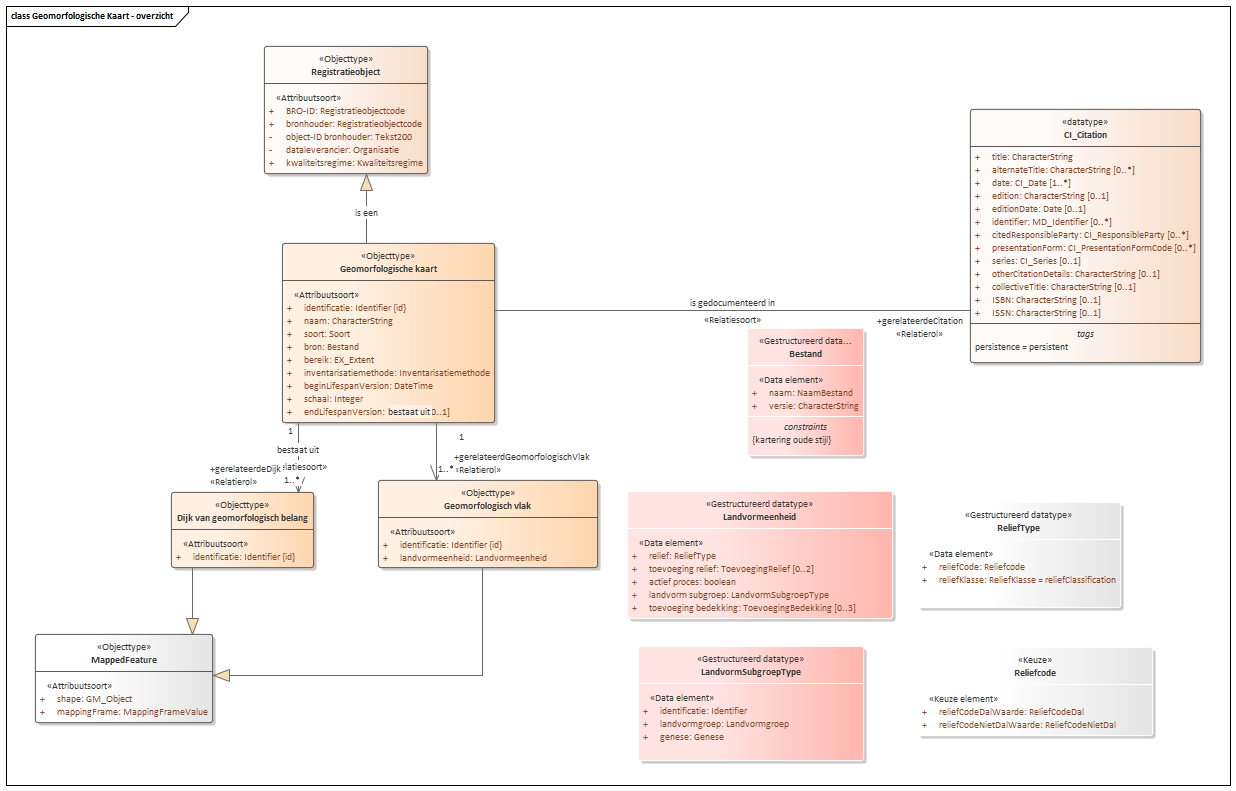
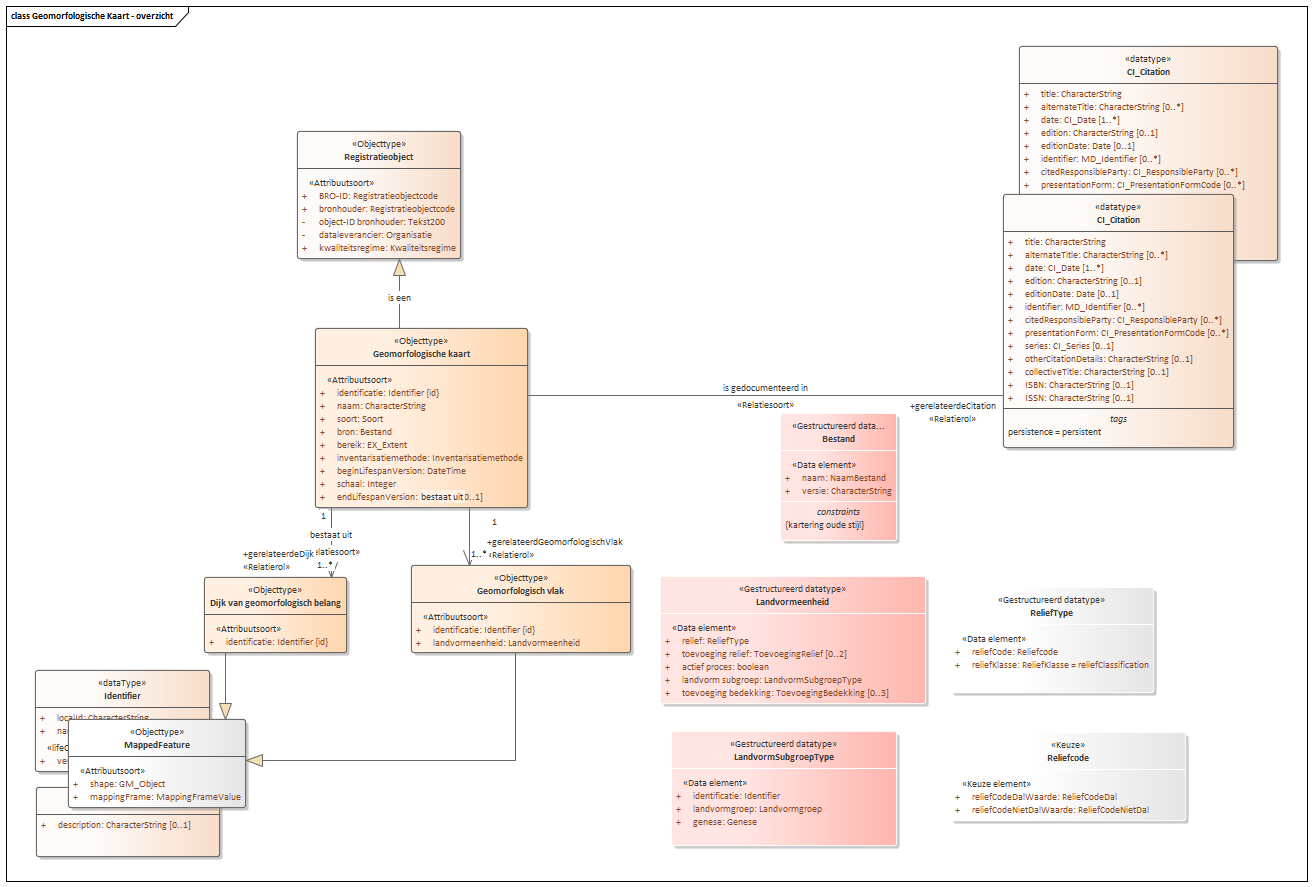
Conceptualmodel-GeomorfologischekaartGMM-conceptueel-1.0-1-20190510-20210317-114831

diff --git a/data/GMM-cat.msword.html b/data/GMM-cat.msword.html
@@ -15,7 +15,7 @@
    <body>
       <p>Conceptual model/Geomorfologische kaart (GMM) - conceptueel/20190510</p>
       <p>Imvertor: 1.63.0</p>
-      <p>Model release: Conceptualmodel-GeomorfologischekaartGMM-conceptueel-1.0-1-20190510-20210317-110543</p>
+      <p>Model release: Conceptualmodel-GeomorfologischekaartGMM-conceptueel-1.0-1-20190510-20210317-114831</p>
       <hr>
       <section>
          <h1>Artikel 1 Definitie van registratieobject, entiteiten en attributen</h1>
@@ -54,7 +54,7 @@
          <section>
             <h2>Het domeinmodel</h2>
             <section id="">
-               <div class="imageinfo overview"><img src="Images/EAID_160626A1_CCDD_4032_B4D5_D30FF8FE4847.png" usemap="#imagemap-EAID_160626A1_CCDD_4032_B4D5_D30FF8FE4847" alt="Diagram Ontwerp conceptueel model voor de Geomorfologische kaart, ten behoeve van de Basisregistratie Ondergrond (BRO)."><map name="imagemap-EAID_160626A1_CCDD_4032_B4D5_D30FF8FE4847"><area shape="rect" alt="Registratieobject" coords="264,46,428,174" href="#graph_EAID_9C4A219D_7AF2_4b3a_A169_62458D7D8E93"><area shape="rect" alt="Dijk van geomorfologisch belang" coords="171,492,314,568" href="#graph_EAID_843FBABD_EBF0_4f1a_B37D_3D27CF51E1E4"><area shape="rect" alt="Geomorfologisch vlak" coords="378,480,598,568" href="#graph_EAID_79B1980D_BA7A_45db_8EF1_F9DCFF6B5389"><area shape="rect" alt="Geomorfologische kaart" coords="282,243,495,423" href="#graph_EAID_6153A93B_5EF8_4e22_8EEC_7CF612ACE3D6"></map><p><b>Geomorfologische Kaart</b> — Ontwerp conceptueel model voor de Geomorfologische kaart, ten behoeve van de Basisregistratie
+               <div class="imageinfo overview"><img src="Images/EAID_160626A1_CCDD_4032_B4D5_D30FF8FE4847.png" usemap="#imagemap-EAID_160626A1_CCDD_4032_B4D5_D30FF8FE4847" alt="Diagram Ontwerp conceptueel model voor de Geomorfologische kaart, ten behoeve van de Basisregistratie Ondergrond (BRO)."><map name="imagemap-EAID_160626A1_CCDD_4032_B4D5_D30FF8FE4847"><area shape="rect" alt="Registratieobject" coords="297,131,461,259" href="#graph_EAID_9C4A219D_7AF2_4b3a_A169_62458D7D8E93"><area shape="rect" alt="Dijk van geomorfologisch belang" coords="204,577,347,653" href="#graph_EAID_843FBABD_EBF0_4f1a_B37D_3D27CF51E1E4"><area shape="rect" alt="Geomorfologisch vlak" coords="411,565,631,653" href="#graph_EAID_79B1980D_BA7A_45db_8EF1_F9DCFF6B5389"><area shape="rect" alt="Geomorfologische kaart" coords="315,328,528,508" href="#graph_EAID_6153A93B_5EF8_4e22_8EEC_7CF612ACE3D6"></map><p><b>Geomorfologische Kaart</b> — Ontwerp conceptueel model voor de Geomorfologische kaart, ten behoeve van de Basisregistratie
                      Ondergrond (BRO).</p>
                </div>
             </section>

diff --git a/data/GMM-cat.respec.html b/data/GMM-cat.respec.html
@@ -32,7 +32,7 @@
       </section>
    <section id="">
       <h2>Het domeinmodel   </h2>
-      <div class="imageinfo overview"><img src="data/Images/EAID_160626A1_CCDD_4032_B4D5_D30FF8FE4847.png" usemap="#imagemap-EAID_160626A1_CCDD_4032_B4D5_D30FF8FE4847" alt="Diagram Ontwerp conceptueel model voor de Geomorfologische kaart, ten behoeve van de Basisregistratie Ondergrond (BRO)."><map name="imagemap-EAID_160626A1_CCDD_4032_B4D5_D30FF8FE4847"><area shape="rect" alt="Registratieobject" coords="264,46,428,174" href="#graph_EAID_9C4A219D_7AF2_4b3a_A169_62458D7D8E93"><area shape="rect" alt="Dijk van geomorfologisch belang" coords="171,492,314,568" href="#graph_EAID_843FBABD_EBF0_4f1a_B37D_3D27CF51E1E4"><area shape="rect" alt="Geomorfologisch vlak" coords="378,480,598,568" href="#graph_EAID_79B1980D_BA7A_45db_8EF1_F9DCFF6B5389"><area shape="rect" alt="Geomorfologische kaart" coords="282,243,495,423" href="#graph_EAID_6153A93B_5EF8_4e22_8EEC_7CF612ACE3D6"></map><p><b>Geomorfologische Kaart</b> — Ontwerp conceptueel model voor de Geomorfologische kaart, ten behoeve van de Basisregistratie
+      <div class="imageinfo overview"><img src="data/Images/EAID_160626A1_CCDD_4032_B4D5_D30FF8FE4847.png" usemap="#imagemap-EAID_160626A1_CCDD_4032_B4D5_D30FF8FE4847" alt="Diagram Ontwerp conceptueel model voor de Geomorfologische kaart, ten behoeve van de Basisregistratie Ondergrond (BRO)."><map name="imagemap-EAID_160626A1_CCDD_4032_B4D5_D30FF8FE4847"><area shape="rect" alt="Registratieobject" coords="297,131,461,259" href="#graph_EAID_9C4A219D_7AF2_4b3a_A169_62458D7D8E93"><area shape="rect" alt="Dijk van geomorfologisch belang" coords="204,577,347,653" href="#graph_EAID_843FBABD_EBF0_4f1a_B37D_3D27CF51E1E4"><area shape="rect" alt="Geomorfologisch vlak" coords="411,565,631,653" href="#graph_EAID_79B1980D_BA7A_45db_8EF1_F9DCFF6B5389"><area shape="rect" alt="Geomorfologische kaart" coords="315,328,528,508" href="#graph_EAID_6153A93B_5EF8_4e22_8EEC_7CF612ACE3D6"></map><p><b>Geomorfologische Kaart</b> — Ontwerp conceptueel model voor de Geomorfologische kaart, ten behoeve van de Basisregistratie
             Ondergrond (BRO).</p>
       </div>
    </section>
